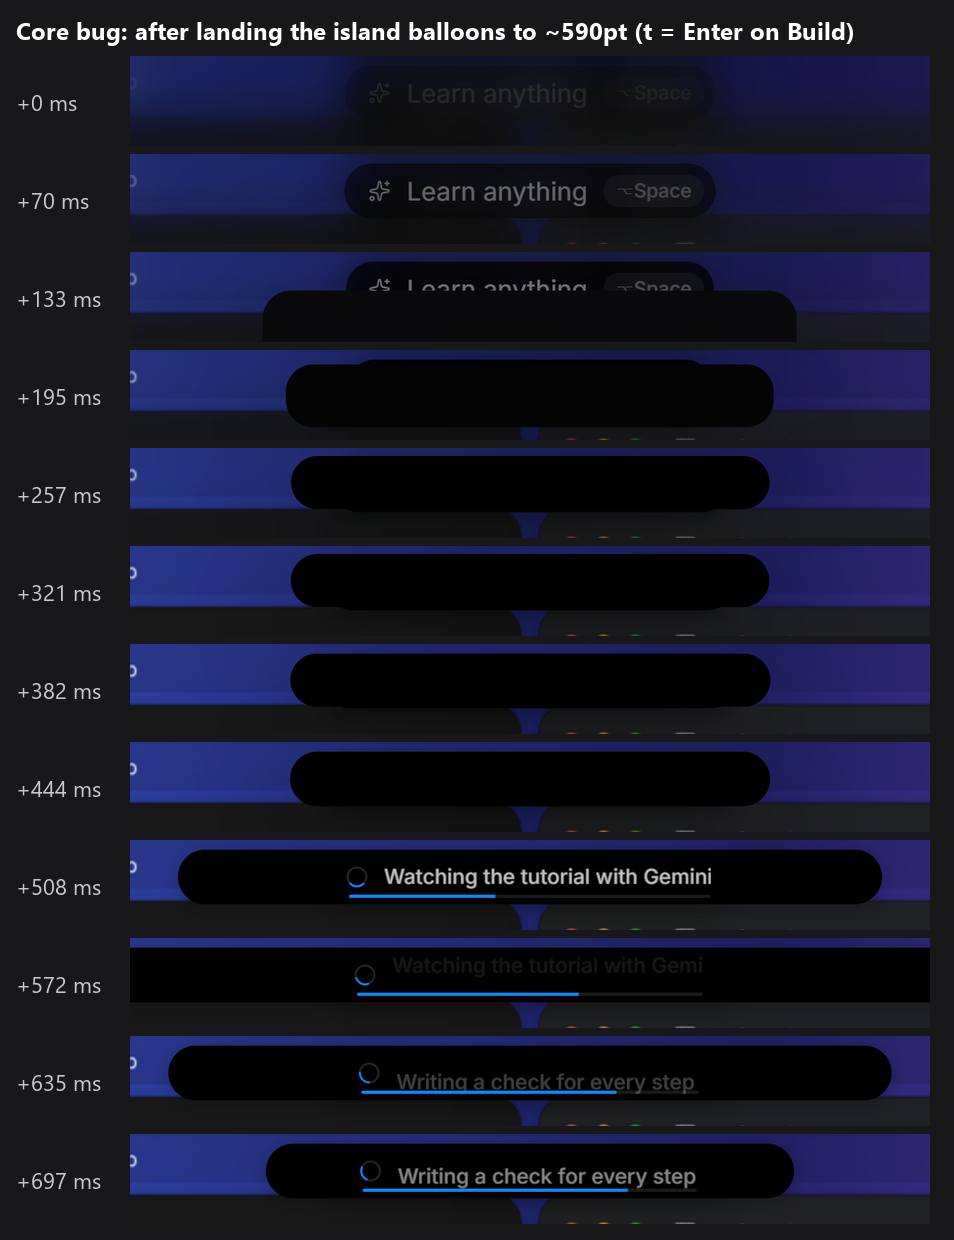
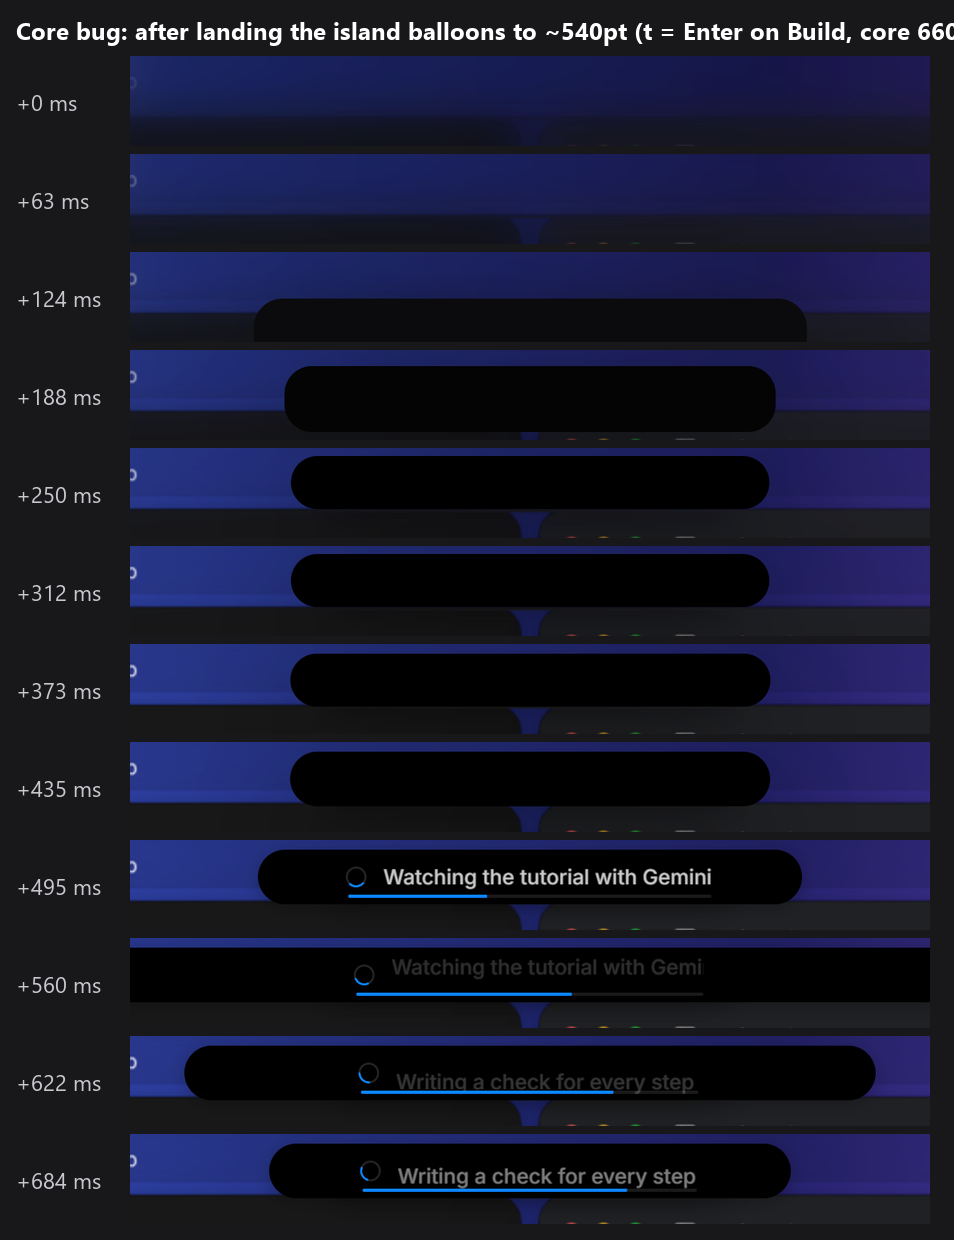
pill: core requests against core 660f238 (rebased), re-measured overshoot

diff --git a/app/agents/pill.md b/app/agents/pill.md
@@ -7,6 +7,7 @@
 - ✅ Off-track: the dot eases to amber and pulses twice with soft halos, once per episode (`shots/pill-offtrack.png`).
 - ✅ Last step: "Lesson complete" with the ring closed in green.
 - ⚠ Mac notch: placed at y = 6 by core, but see Core requests 2 (the mockups attach the island to the top edge, and a physical notch would hide the text).
+- ✅ Rebased onto `adrian/shell` 660f238 (launcher grows out of the island) and re-checked: the full flow and `?scenario=pill` behave the same.
 - ❌ Not seen in Electron (Windows). Checked in headless Chrome at 1600×1000 (the Browser pane was hidden).
 
 ## Goal
@@ -29,17 +30,19 @@ islandModes: idle (0), building (1), compact (2). The morphing container itself 
 - Mac: hugs the notch (y = 6)
 
 ## Test
-`npm run dev:web -- --port 5174` → `http://localhost:5174/?scenario=full` (or `?scenario=pill` once you add `mock/scenarios/pill.json`)
+`npm run dev:web -- --port 5174` → `http://localhost:5174/?scenario=pill` (or `?scenario=full`). Add `&engine=ws://127.0.0.1:9` while a mock server holds 8787 (Core request 3).
 
 ## Adrian's spec
 **First pass (no spec from Adrian yet):** build to the mockups in `docs/mockups/` (01–05 are the target look; 06–07 are earlier explorations to restyle in the Apple look) and the animation + placement spec in `docs/FRONTEND-HANDOFF.md`. Don't spend time on colors (Adrian's theme comes later). Adrian reviews after this pass and writes his spec here for pass 2.
 
 ## Core requests
-1. **Landing overshoot (bug, signature transition).** `core/Island.tsx:80–84`: on `pill:receive` the width snaps to `pill.landingWidth` with `transition={{ duration: 0 }}`. That one-frame jump leaves the width motion value with roughly 2300 px/s of velocity. The next `springOut` inherits it, so the island balloons before settling. Measured every 40ms after landing: 300 → 573 → 594 → 518 → 416 → 332 → 290 → 264 → 243. It shows as a ~590pt black bar right after the launcher lands (`shots/pill-landing-overshoot.png`, frames +508 to +635ms).
+_Written against core `660f238` (launcher grows out of the island, `yielded` state)._
+
+1. **Landing overshoot (bug, signature transition). Still there after the rebase.** In `core/Island.tsx:92–96`, on `pill:receive` (`:32–37`) the width snaps to `pill.landingWidth` with `transition={{ duration: 0 }}`. That one-frame jump leaves the width motion value with a large velocity. The next `springOut` inherits it, so the island balloons before settling. Measured on 660f238 every 40ms after landing: 300 → 520 → 538 → 478 → 387 → 320 → 285 → 262 → 243. It shows as a ~540pt black bar right after the launcher lands (`shots/pill-landing-overshoot.png`, frames +560 to +622ms).
    *Fix:* drive width and height with `useMotionValue`, call `width.jump(pill.landingWidth)` and `height.jump(pill.height)` in the `pill:receive` handler (`jump` resets velocity), then `animate(width, size.w, springOut)` as now. Minimal alternative: add `velocity: 0` to the transition, but only for the first animation after landing (a `justLanded` ref, cleared on the next size change). Using `velocity: 0` on every retarget would make the island stutter while it follows the pill's growing text slot.
-2. **Notch shape and placement (decide in pass 2).** Mockups 01 and 02 attach the island to the top edge, not as a free stadium at y = 6. Measured in 01: flat top at y = 0, body 258×36, flaring to 278 at y = 0 (two small concave "ears"), bottom corners about 14pt round. Mockup 02's card has the same attachment with about 24pt bottom corners. If adopted, in `core/Island.tsx:69,82`: `top` 0 on Mac, pill height 36, `borderRadius: isPill ? '0 0 14px 14px' : '0 0 24px 24px'`, plus the two inverse-corner ears.
+2. **Notch shape and placement (decide in pass 2).** Mockups 01 and 02 attach the island to the top edge, not as a free stadium at y = 6. Measured in 01: flat top at y = 0, body 258×36, flaring to 278 at y = 0 (two small concave "ears"), bottom corners about 14pt round. Mockup 02's card has the same attachment with about 24pt bottom corners. This matters more now that every surface is born from the island, since the launcher grows out of whatever shape the island has. If adopted, in `core/Island.tsx:80` (`top`) and `:94` (`borderRadius`): `top` 0 on Mac, pill height 36, `borderRadius: isPill ? '0 0 14px 14px' : '0 0 24px 24px'`, plus the two inverse-corner ears.
    **Demo risk:** if Michael's Mac has a physical notch (about 185×32pt at the top center), the middle of the text is hidden behind it either way. Then place the pill below the notch (`workArea.y`, about 38 on notched Macs), or widen it and put the content beside the notch. Please check which Mac the demo runs on.
-3. **Stage: `?scenario=` is ignored when something listens on 8787.** `bridge.ts:66–69` tries `ws://localhost:8787` first. Right now `npm run mock happy` from `repo/app` is running there, so every agent's stage silently plays *that* server's scenario instead of its own `?scenario=`. Suggest: when `?scenario=` is given explicitly, skip the socket and run inline. Workaround: append `&engine=ws://127.0.0.1:9` (dead port → inline mock after 900ms).
+3. **Stage: `?scenario=` is ignored when something listens on 8787. Unchanged on 660f238.** `bridge.ts:66–69` tries `ws://localhost:8787` first. Right now `npm run mock happy` from `repo/app` is running there, so every agent's stage silently plays *that* server's scenario instead of its own `?scenario=`. Suggest: when `?scenario=` is given explicitly, skip the socket and run inline. Workaround: append `&engine=ws://127.0.0.1:9` (dead port → inline mock after 900ms).
 
 ## Notes
 - **Ring = steps done / total** (computed in the pill), not core's `useProgress().fraction`, which also counts checks inside the step. With check-level progress the last check already fills the ring, so nothing moves visibly at the pass. Now the ring advances exactly one step on the spring at each pass.
@@ -47,6 +50,8 @@ islandModes: idle (0), building (1), compact (2). The morphing container itself 
 - **Dot color while watching:** mockups 01 and 02 show it **green** during a step in progress. The handoff spec says gray watching / amber off-track / green passed. I followed the spec. Adrian: pick one in pass 2. It's one line in `features/pill/parts.tsx` (`tone`).
 - **Off-track pulse once per episode:** when `offtrack` arrives, the cards feature takes the island at once, so the pill isn't visible. The pulse plays when the pill comes back (Esc or ✕), not again on hover remounts.
 - **Building:** keeps the last `lesson.building` message through `lesson.ready` (core clears it there), and the line fills to 100% on `lesson.ready`.
+- **`island:size` traffic (FYI for core):** when the step text changes, the pill's text slot springs its width over about 300ms. The island re-measures on every frame, so `Island.tsx:63–65` emits `island:size` about 20 times per step change (IPC to main in Electron). This is harmless, but if it ever shows up, emit only when the size settles or while the launcher is closed.
+- Generality rule: no PINN-specific UI strings in the pill ("Learn anything", "Building your lesson", "Step N ·", "Lesson complete"). PINN only appears as mock data in `mock/scenarios/pill.json`.
 - Reduced motion: `MotionConfig reducedMotion="user"` turns off the y offsets and the scale pulses. Crossfades, color changes and the width spring stay.
 - Own pieces in `features/pill/parts.tsx` (`PillRing`, `StatusMark`, `SwapText`, `BuildLine`), not the shared `core/ui/atoms` ones, because the pill sizes (16px ring, 7px dot) differ from the cards'.
 - **How to see it:** `http://localhost:5174/?scenario=pill&engine=ws://127.0.0.1:9` runs idle → building → steps 1–2 pass on their own → step 3 off-track (Esc to see the amber pulse) → step 4 → "Lesson complete" in about 35s. `?scenario=full&engine=ws://127.0.0.1:9`: Ctrl+K, type, Enter, Enter → step 4 passes at about +10s → step 6 goes off-track. HUD Reset restarts.
